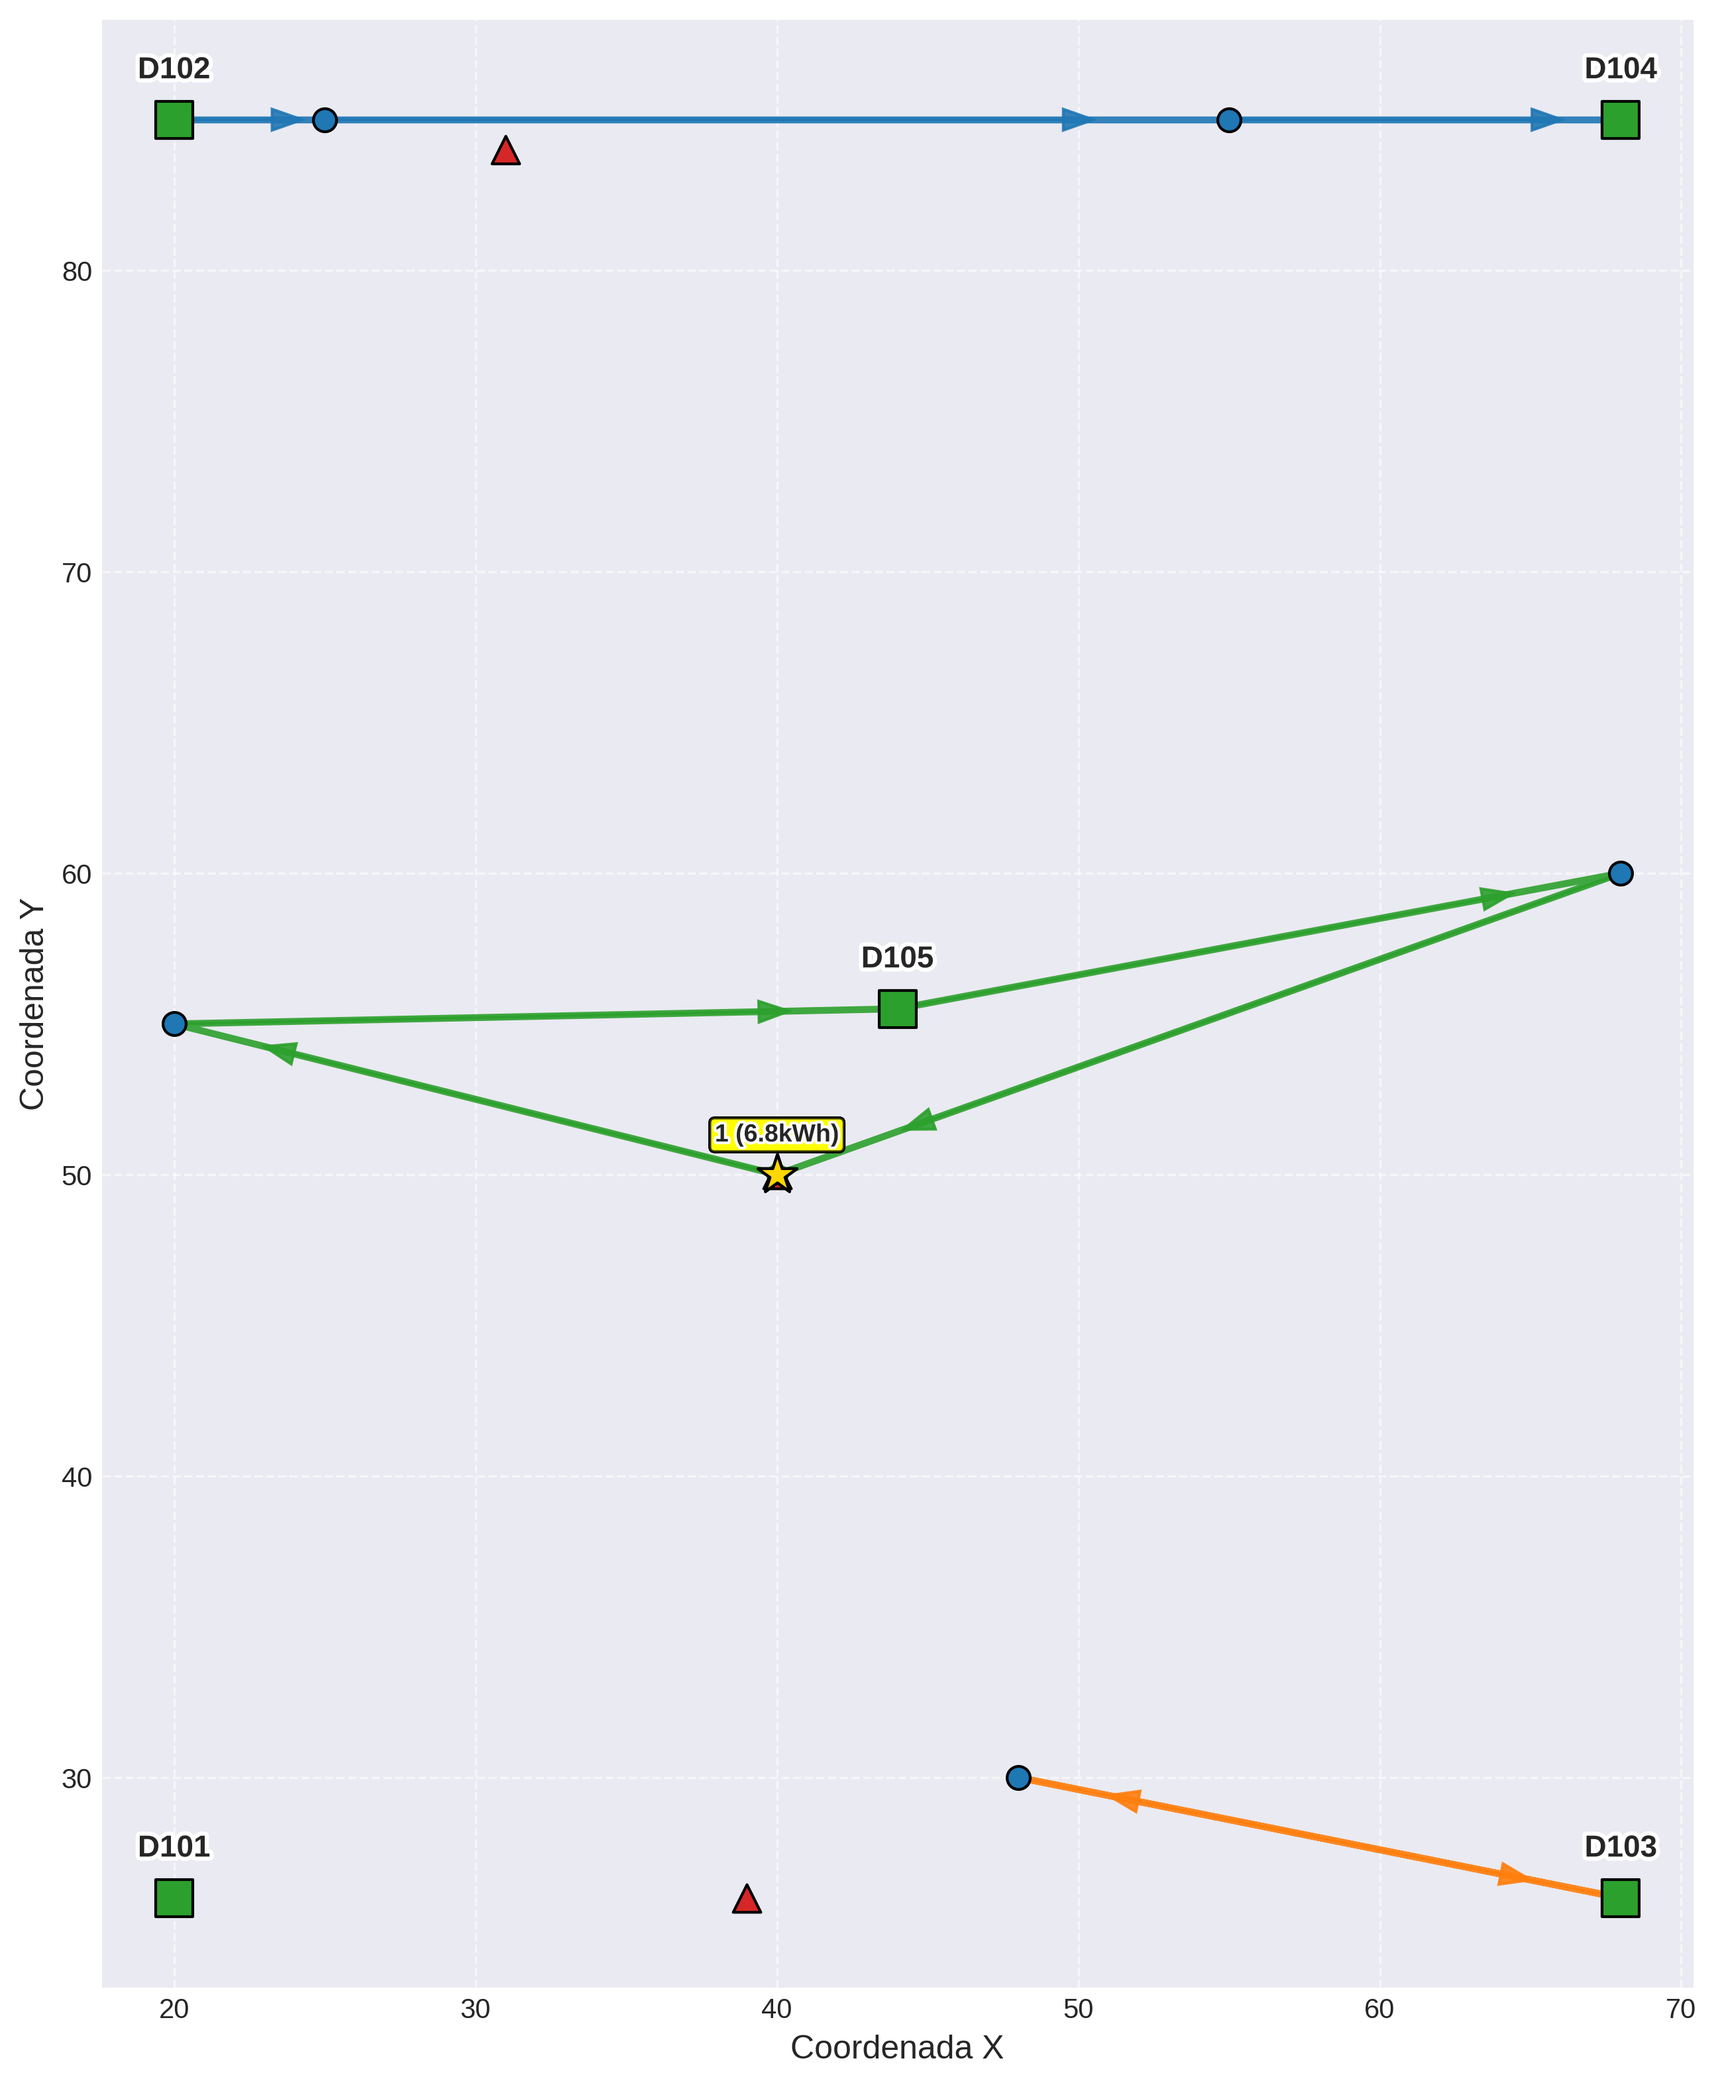
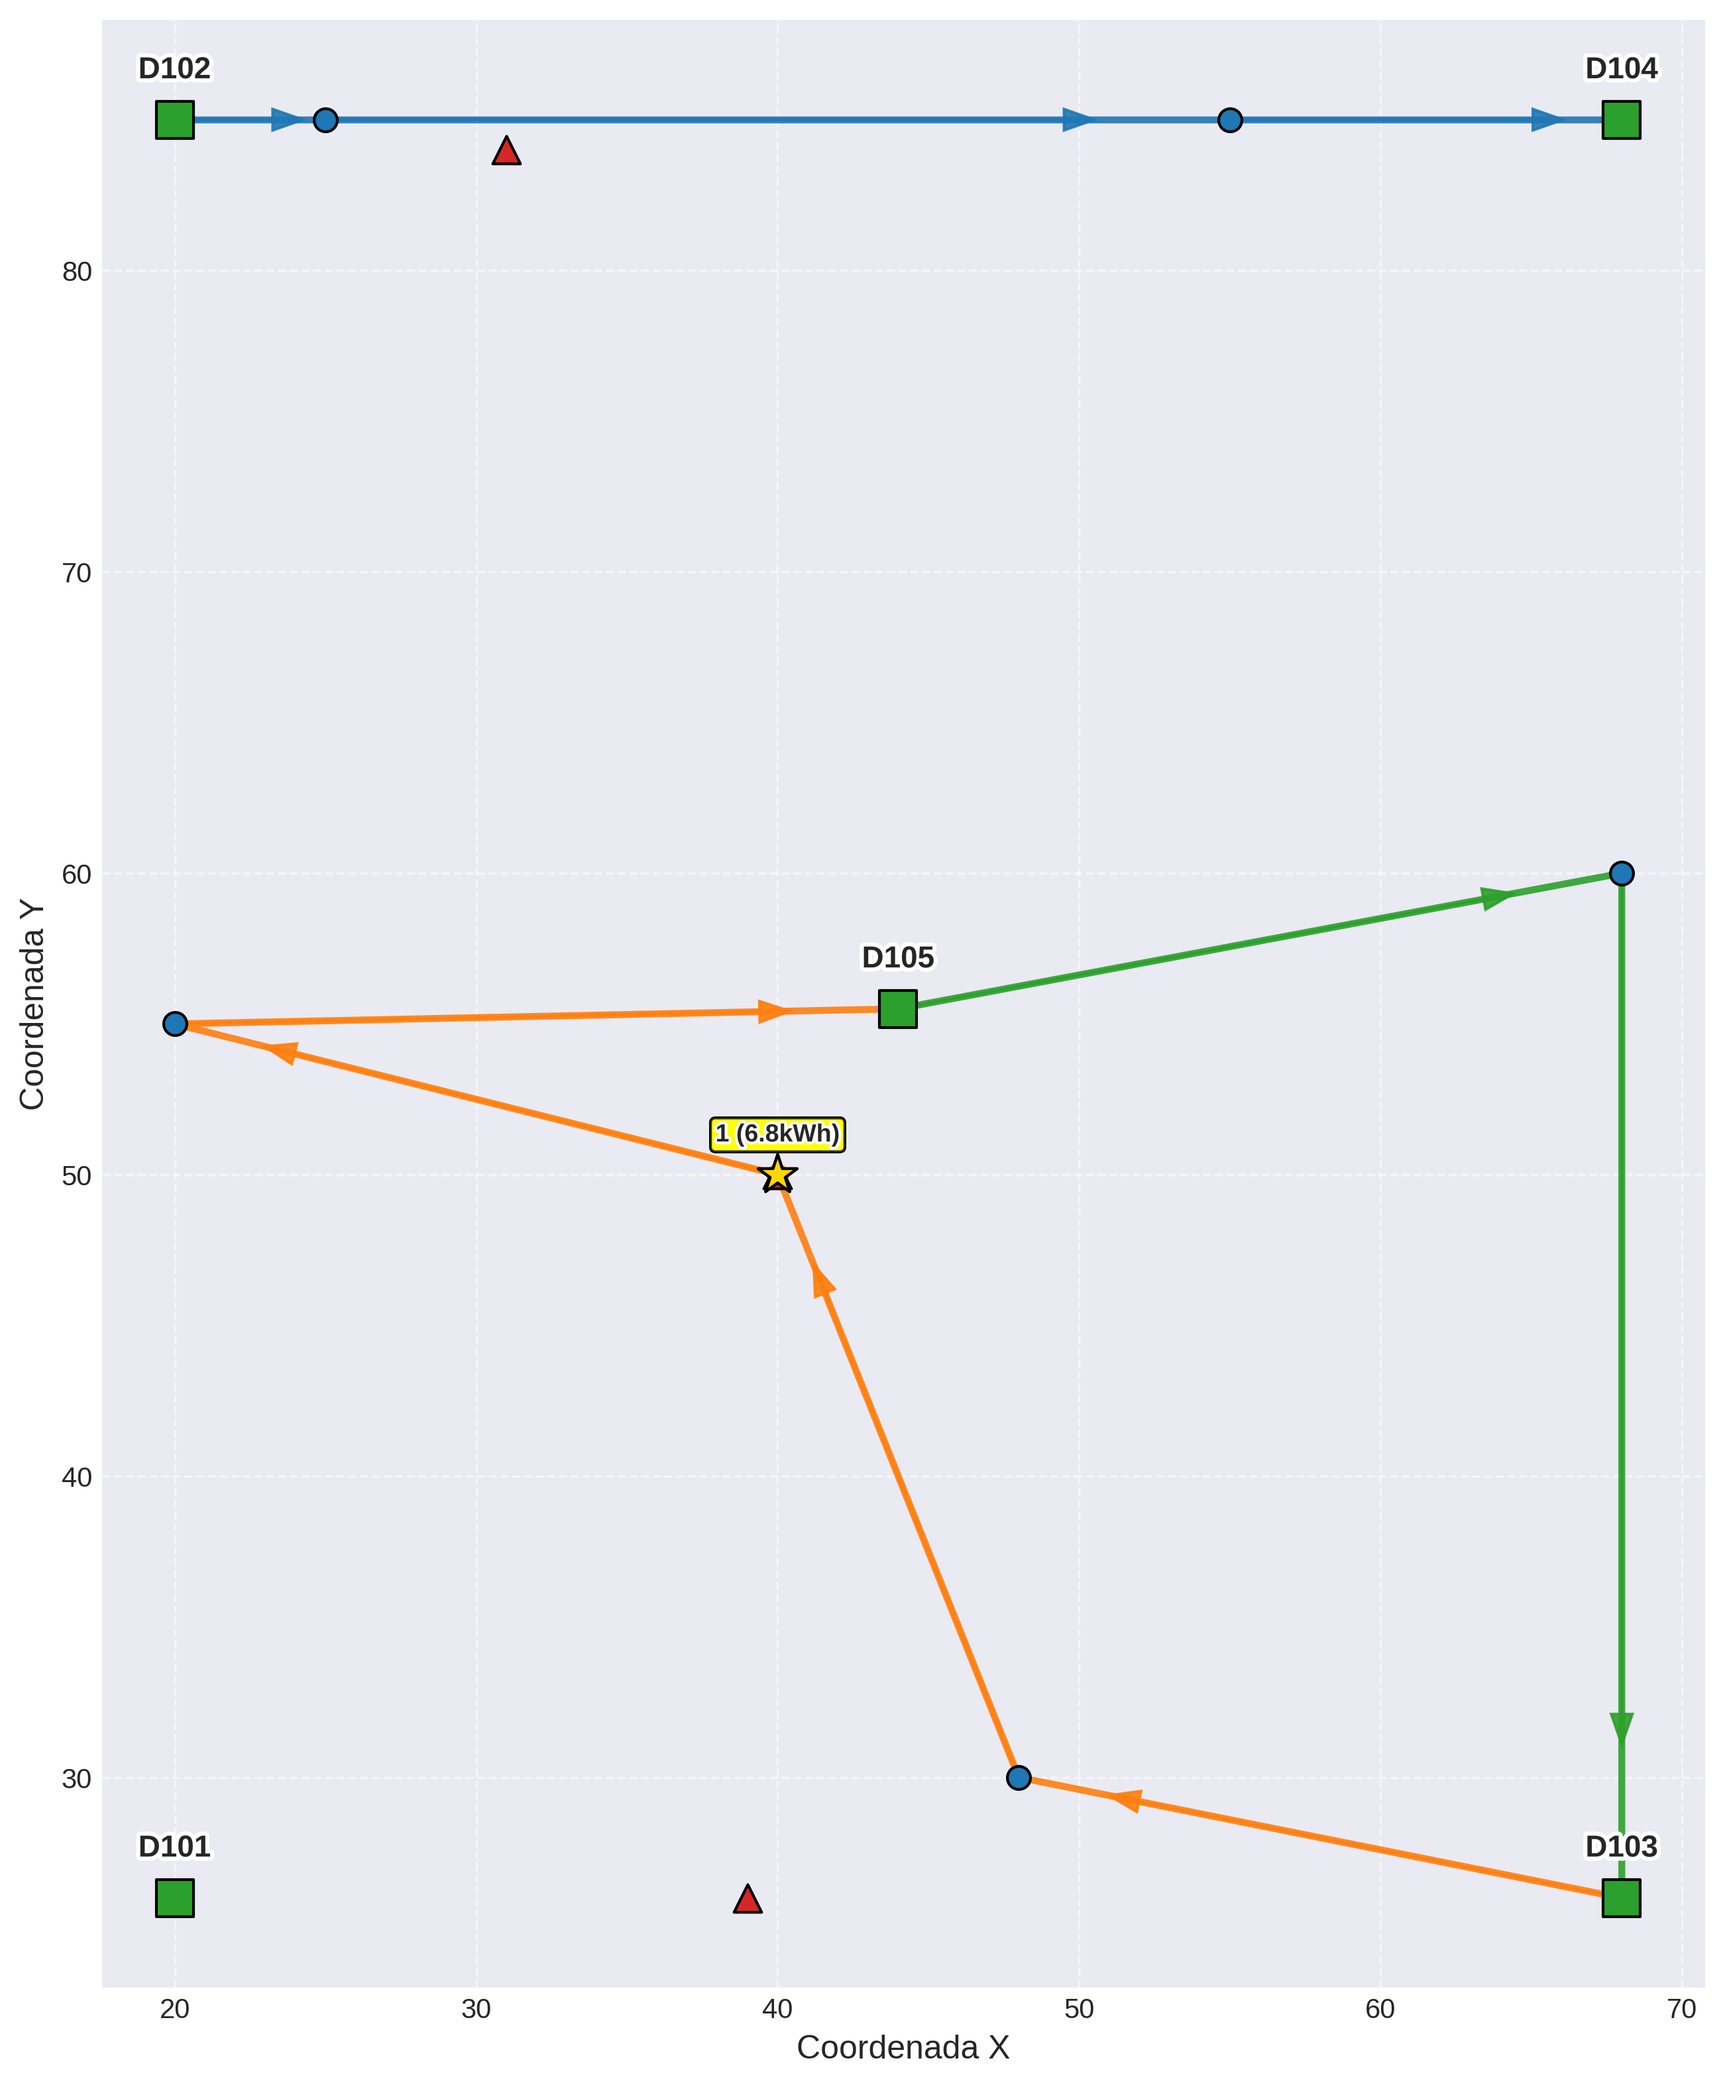
feat: add depot reassign

diff --git a/src/EVRP/local_search/depot_reassignment.py b/src/EVRP/local_search/depot_reassignment.py
@@ -1,0 +1,188 @@
+import copy
+import random
+from typing import List, TYPE_CHECKING
+from EVRP.classes.instance import Instance
+from EVRP.classes.node import NodeType
+from EVRP.classes.route import Route
+
+if TYPE_CHECKING:
+    from EVRP.solution import Solution
+
+class DepotReassignment:
+    """
+    Depot Reassignment shake operator that reassigns k random routes to different depots.
+    This operator helps diversify the search by changing the depot assignments of routes,
+    which can lead to different route structures and potentially better solutions.
+    """
+    
+    def __init__(self, instance: Instance, k: int = 2):
+        """
+        Initialize the depot reassignment operator.
+        
+        Args:
+            instance: The EVRP instance
+            k: Number of random routes to reassign to different depots
+        """
+        self.instance = instance
+        self.k = k
+
+    def local_search(self, solution: 'Solution') -> bool:
+        """
+        Depot reassignment is primarily a shake operator, not a local search operator.
+        This method returns False as it's not designed for local improvement.
+        
+        Args:
+            solution: The solution to improve
+            
+        Returns:
+            bool: Always False as this is a shake operator
+        """
+        return False
+
+    def perturbation(self, solution: 'Solution') -> 'Solution':
+        """
+        Apply depot reassignment perturbation to diversify the solution.
+        Reassigns k random routes to different depots.
+        
+        Args:
+            solution: The solution to perturb
+            
+        Returns:
+            Solution: The perturbed solution
+        """
+        if not solution.routes or len(solution.routes) < 2:
+            return solution
+            
+        # Create a deep copy of the solution
+        perturbed_solution = copy.deepcopy(solution)
+        
+        # Select k random routes to reassign (without replacement)
+        routes_to_reassign = random.sample(
+            perturbed_solution.routes, 
+            min(self.k, len(perturbed_solution.routes))
+        )
+        
+        for route in routes_to_reassign:
+            self._reassign_route_to_different_depot(route)
+        
+        # Re-evaluate the perturbed solution
+        perturbed_solution.evaluate()
+        
+        return perturbed_solution
+
+    def _reassign_route_to_different_depot(self, route: Route) -> None:
+        """
+        Reassign a route to a different depot by changing the start and end depot nodes.
+        
+        Args:
+            route: The route to reassign
+        """
+        if not route.nodes or len(route.nodes) < 2:
+            return
+            
+        # Get current depot (first and last nodes should be the same depot)
+        current_depot = route.nodes[0]
+        
+        # Find a different depot
+        available_depots = [
+            depot for depot in self.instance.depots 
+            if depot.id != current_depot.id
+        ]
+        
+        if not available_depots:
+            return  # No other depots available
+            
+        # Select a random different depot
+        new_depot = random.choice(available_depots)
+        
+        # Update the route: replace first and last depot nodes
+        route.nodes[0] = new_depot
+        route.nodes[-1] = new_depot
+        
+        # Update charging decisions for the new depot
+        # Remove old depot charging decision
+        if current_depot.id in route.charging_decisions:
+            del route.charging_decisions[current_depot.id]
+        
+        # Add charging decision for new depot (full battery)
+        route.charging_decisions[new_depot.id] = (
+            self.instance.technologies[0],  # Use slow charging at depot
+            self.instance.vehicle.battery_capacity
+        )
+
+    def _get_route_depot(self, route: Route):
+        """
+        Get the depot assigned to a route.
+        
+        Args:
+            route: The route to check
+            
+        Returns:
+            Depot: The depot assigned to the route, or None if invalid
+        """
+        if not route.nodes or len(route.nodes) < 2:
+            return None
+            
+        # First and last nodes should be depots
+        if (route.nodes[0].type != NodeType.DEPOT or 
+            route.nodes[-1].type != NodeType.DEPOT):
+            return None
+            
+        return route.nodes[0]
+
+    def _is_valid_depot_reassignment(self, route: Route, new_depot) -> bool:
+        """
+        Check if reassigning a route to a new depot is valid.
+        
+        Args:
+            route: The route to check
+            new_depot: The new depot to assign
+            
+        Returns:
+            bool: True if the reassignment is valid
+        """
+        if not route.nodes or len(route.nodes) < 2:
+            return False
+            
+        # Check if new depot is different from current
+        current_depot = route.nodes[0]
+        if current_depot.id == new_depot.id:
+            return False
+            
+        # Check if new depot has required technology
+        if not new_depot.technologies:
+            return False
+            
+        return True
+
+    def _calculate_depot_distance_impact(self, route: Route, new_depot) -> float:
+        """
+        Calculate the distance impact of reassigning a route to a new depot.
+        
+        Args:
+            route: The route to analyze
+            new_depot: The new depot to assign
+            
+        Returns:
+            float: The distance difference (positive means increase)
+        """
+        if not route.nodes or len(route.nodes) < 3:
+            return 0.0
+            
+        current_depot = route.nodes[0]
+        
+        # Calculate current total distance
+        current_distance = 0.0
+        prev_node = current_depot
+        for node in route.nodes[1:]:
+            current_distance += self.instance.distance_matrix[prev_node.id][node.id]
+            prev_node = node
+        
+        # Calculate new total distance with new depot
+        new_distance = 0.0
+        prev_node = new_depot
+        for node in route.nodes[1:]:
+            new_distance += self.instance.distance_matrix[prev_node.id][node.id]
+            prev_node = node
+        
+        return new_distance - current_distance

diff --git a/src/process_all.py b/src/process_all.py
@@ -6,6 +6,7 @@ from EVRP.local_search.recharge_realocation import RechargeRealocation
 from EVRP.local_search.reinsertion import Reinsertion
 from EVRP.local_search.two_opt import TwoOpt
 from EVRP.local_search.two_opt_star import TwoOptStar
+from EVRP.local_search.depot_reassignment import DepotReassignment
 from EVRP.GVNS import GVNS
 from utils.plot_solution import plot_solution
 from utils.summary import print_instance_summary
@@ -74,7 +75,11 @@ def process_all_instances():
                 ls_max_iter=500, # Máximo de tentativas de busca local
                 max_evaluations=80,  # Máximo de avaliações,
                 local_search=[twoOpt, twoOptStar, rechargeRealocation],
-                perturbation=[twoOpt, twoOptStar]
+                perturbation=[
+                    DepotReassignment(instance, k=2),  # Depot reassignment shake operator
+                    twoOpt, 
+                    twoOptStar
+                ]
             )
             
             final_solutions = gvns.run(initial_solutions)

diff --git a/src/EVRP/local_search/__init__.py b/src/EVRP/local_search/__init__.py
@@ -1,22 +1,24 @@
-# Módulo de busca local para EVRP
-from .two_opt import TwoOpt
-from .two_opt_star import TwoOptStar
-from .reinsertion import Reinsertion
-from .recharge_realocation import RechargeRealocation
-from .relocate import Relocate
+# Import all local search operators for easy access
+from .depot_reassignment import DepotReassignment
 from .exchange import Exchange
 from .or_opt import OrOpt
-from .three_opt import ThreeOpt
+from .recharge_realocation import RechargeRealocation
+from .reinsertion import Reinsertion
+from .relocate import Relocate
 from .shift import Shift
+from .three_opt import ThreeOpt
+from .two_opt import TwoOpt
+from .two_opt_star import TwoOptStar
 
 __all__ = [
-    'TwoOpt',
-    'TwoOptStar', 
-    'Reinsertion',
-    'RechargeRealocation',
-    'Relocate',
-    'Exchange',
+    'DepotReassignment',
+    'Exchange', 
     'OrOpt',
+    'RechargeRealocation',
+    'Reinsertion',
+    'Relocate',
+    'Shift',
     'ThreeOpt',
-    'Shift'
+    'TwoOpt',
+    'TwoOptStar'
 ]

diff --git a/src/process_single.py b/src/process_single.py
@@ -12,6 +12,7 @@ from EVRP.local_search.exchange import Exchange
 from EVRP.local_search.or_opt import OrOpt
 from EVRP.local_search.three_opt import ThreeOpt
 from EVRP.local_search.shift import Shift
+from EVRP.local_search.depot_reassignment import DepotReassignment
 from utils import plot_solution, print_instance_summary
 
 def process_single_instance(instance_file):
@@ -56,6 +57,7 @@ def process_single_instance(instance_file):
             RechargeRealocation(instance)
         ],
         perturbation=[
+            DepotReassignment(instance, k=2),  # Depot reassignment shake operator
             TwoOptStar(instance, max_iter=10),
             TwoOpt(instance, max_iter=10)
         ]

diff --git a/src/EVRP/local_search/reinsertion.py b/src/EVRP/local_search/reinsertion.py
@@ -197,7 +197,6 @@ class Reinsertion:
                     # Remove the moved customer from the savings list
                     customer_savings = [(cid, g) for cid, g in customer_savings 
                                       if cid != selected_move['customer_id']]
-        print(improved)
         return improved
     
     def _calculate_customer_savings(self, solution: 'Solution') -> List[Tuple[int, float]]:

diff --git a/src/EVRP/solution.py b/src/EVRP/solution.py
@@ -27,8 +27,6 @@ class Solution:
         for _, route in enumerate(self.routes):
             route.evaluate(self.instance)
             self.total_distance += route.total_distance
-            print(route.total_cost)
-            print(route.charging_decisions)
 
             self.total_cost += route.total_cost
             if not route.is_feasible:

diff --git a/src/main.py b/src/main.py
@@ -13,4 +13,4 @@ if __name__ == "__main__":
             process_single_instance(sys.argv[1])
     else:
         # Processa instância padrão
-        process_single_instance("./data/c101C5.txt")
+        process_single_instance("./data/c101_21.txt")
